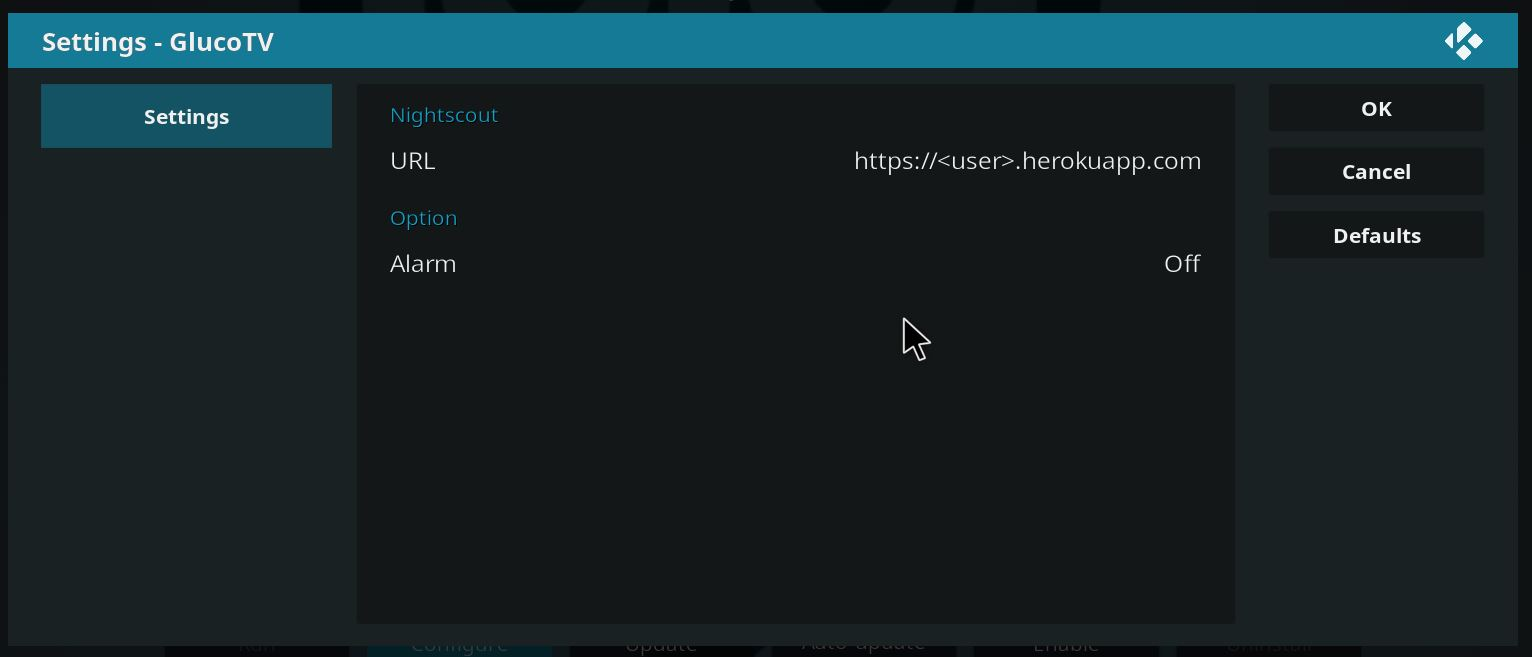
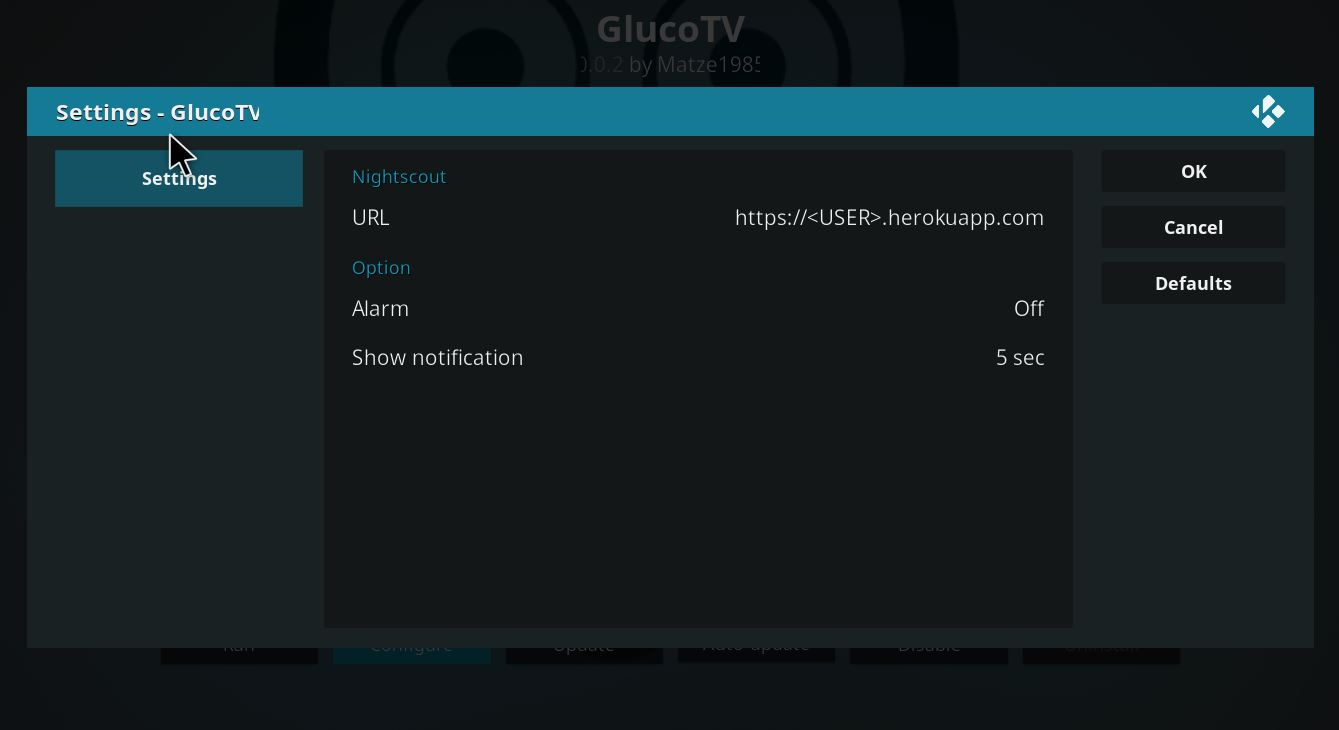
Version 0.0.4 * Added option for display notification time * Waiting time adapted to server epoch time * Other extension for alarm and notification

diff --git a/addon.py b/addon.py
@@ -13,6 +13,7 @@ addonicon = xbmc.translatePath(__addon__.getAddonInfo('icon'))
 # Settings
 sNightscout = __addon__.getSetting('nightscout')
 sAlarm = __addon__.getSetting('alarm')
+sNotification = __addon__.getSetting('notification')
 
 # Load JSON from url
 urlEntries = urllib2.urlopen(sNightscout + '/api/v1/entries/sgv.json?count=2')
@@ -28,9 +29,9 @@ iLastSgv = int(jsonEntries[1]['sgv'])
 iDate = int(jsonEntries[0]['date'])
 iLastDate = int(jsonEntries[1]['date'])
 iServerTimeEpoch = int(jsonStatus['serverTimeEpoch'])
-iMsServerTimeEpoch = iServerTimeEpoch - iDate
-iMin = iMsServerTimeEpoch / 60000
-iSec = iMsServerTimeEpoch / 6000
+iMsServerTimeEpochDate = iServerTimeEpoch - iDate
+iMin = iMsServerTimeEpochDate / 60000
+iMsWait = iMsServerTimeEpochDate / iMin
 
 sStatus = str(jsonStatus['status'])
 sName = str(jsonStatus['name'])
@@ -66,22 +67,46 @@ if i_fDelta == 0:
 
 # Notification
 sHeader = str(i_fSgv) + ' ' + sUnits + ' • ' + sDelta + str(i_fDelta)
-sMessage = 'just now'
+sMessage1 = str('just now')
+sMessage2 = str(iMin) + str(' min ago')
+
+if sNotification == '1 sec':
+	iNotificationTime = 1000
+if sNotification == '2 sec':
+	iNotificationTime = 2000
+if sNotification == '3 sec':
+	iNotificationTime = 3000
+if sNotification == '4 sec':
+	iNotificationTime = 4000
+if sNotification == '5 sec':
+	iNotificationTime = 5000
+if sNotification == '6 sec':
+	iNotificationTime = 6000
+if sNotification == '7 sec':
+	iNotificationTime = 7000
+if sNotification == '8 sec':
+	iNotificationTime = 8000
+if sNotification == '9 sec':
+	iNotificationTime = 9000
+if sNotification == '10 sec':
+	iNotificationTime = 10000
 
 # Alarm
 bAlarm = ''
-if iSgv <= iBgLow or iSgv >= iBgHigh or iSgv <= iBgTargetBottom or iSgv >= iBgTargetTop:
+if iSgv <= iBgLow or iSgv >= iBgHigh or iSgv <= iBgTargetBottom or iSgv >= iBgTargetTop or iMin >= 10:
 	bAlarm = True
 else:
 	bAlarm = False
 
-if iMin == 0 and iSec == 0 or iSec == 1 or iSec == 2:
-	xbmcgui.Dialog().notification(sHeader, sMessage, addonicon, 5000, bAlarm)
+if iMin == 0:
+	xbmcgui.Dialog().notification(sHeader, sMessage1, addonicon, iNotificationTime , bAlarm)
+if iMin >= 10:
+	xbmcgui.Dialog().notification(sHeader, sMessage2, addonicon, iNotificationTime, bAlarm)
 	
 # Close url
 urlEntries.close()
 urlStatus.close()
 
 # Sleep and execute
-xbmc.sleep(1000)
+xbmc.sleep(iMsWait)
 xbmc.executebuiltin("XBMC.RunAddon(" + addonid + ")")
